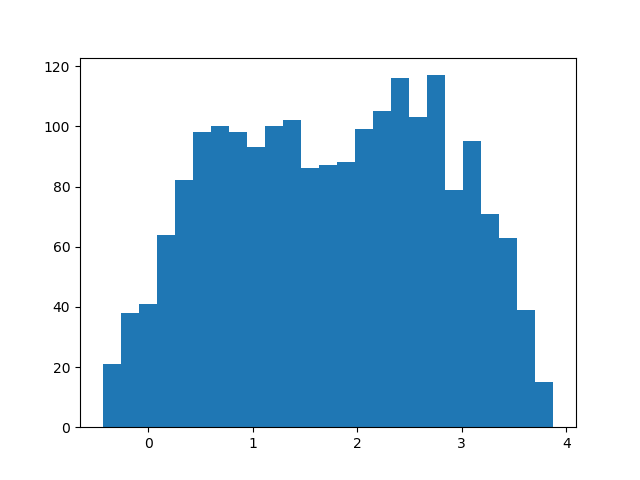
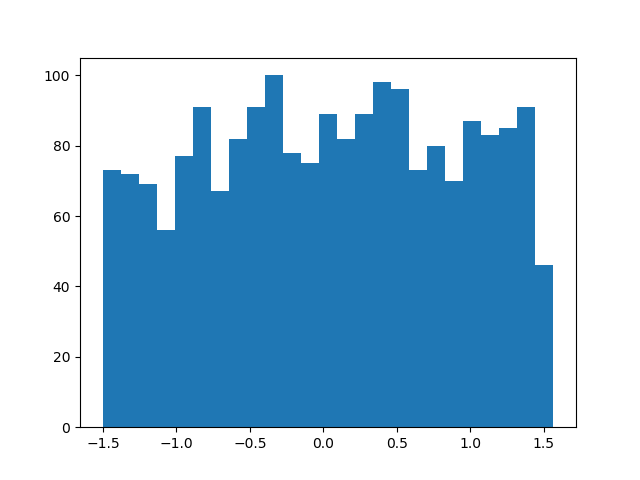
fixed dual

diff --git a/train_ot.py b/train_ot.py
@@ -29,8 +29,8 @@ class Synthetic(data.Dataset):
     def __init__(self, args,  n=1000):
         self.n = n
         np.random.seed(0)
-        #self.y = np.random.normal(loc=0, scale=1, size=(self.n, 2))
-        self.y = np.random.multivariate_normal(mean=[2, 3], cov=np.array([[3,-2],[-2,5]]), size=(self.n))
+        self.y = np.random.normal(loc=0, scale=1, size=(self.n, 2))
+        #self.y = np.random.multivariate_normal(mean=[2, 3], cov=np.array([[3,-2],[-2,5]]), size=(self.n))
 
         #torch.manual_seed(0)
         #self.u = torch.rand(self.n, args.dims)
@@ -269,7 +269,7 @@ if __name__ == "__main__":
     net = ICNN_LastInp_Quadratic(input_dim=args.dims,
                                  hidden_dim=128,
                                  activation='celu',
-                                 num_layer=4)
+                                 num_layer=2)
 
     for p in list(net.parameters()):
         if hasattr(p, 'be_positive'):
